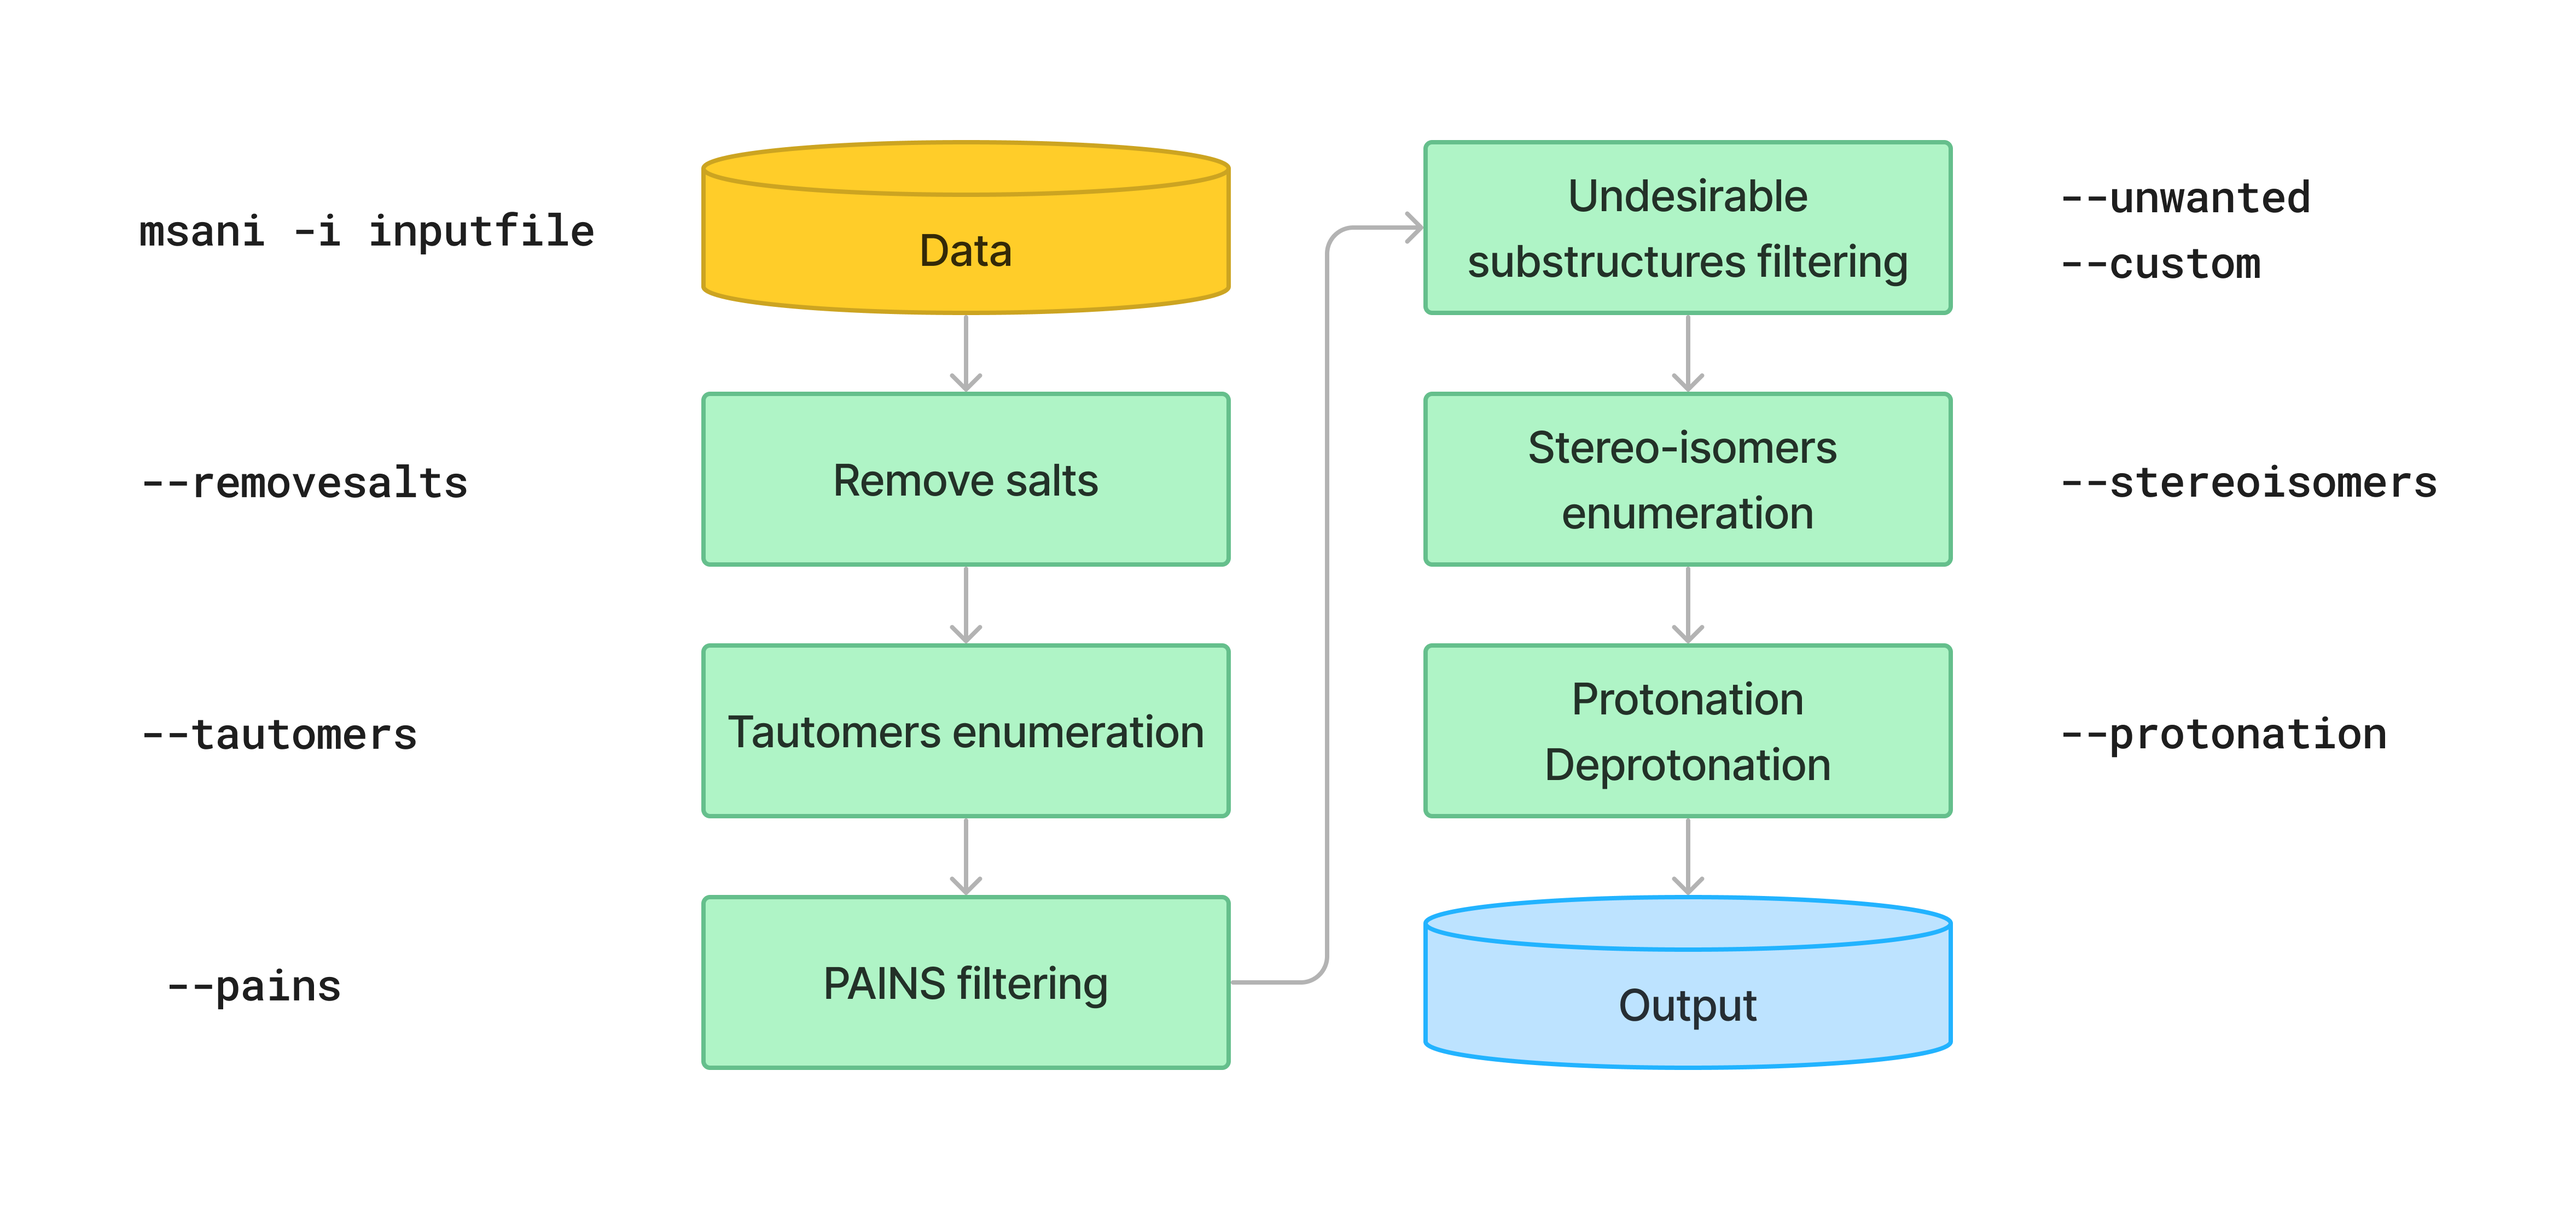
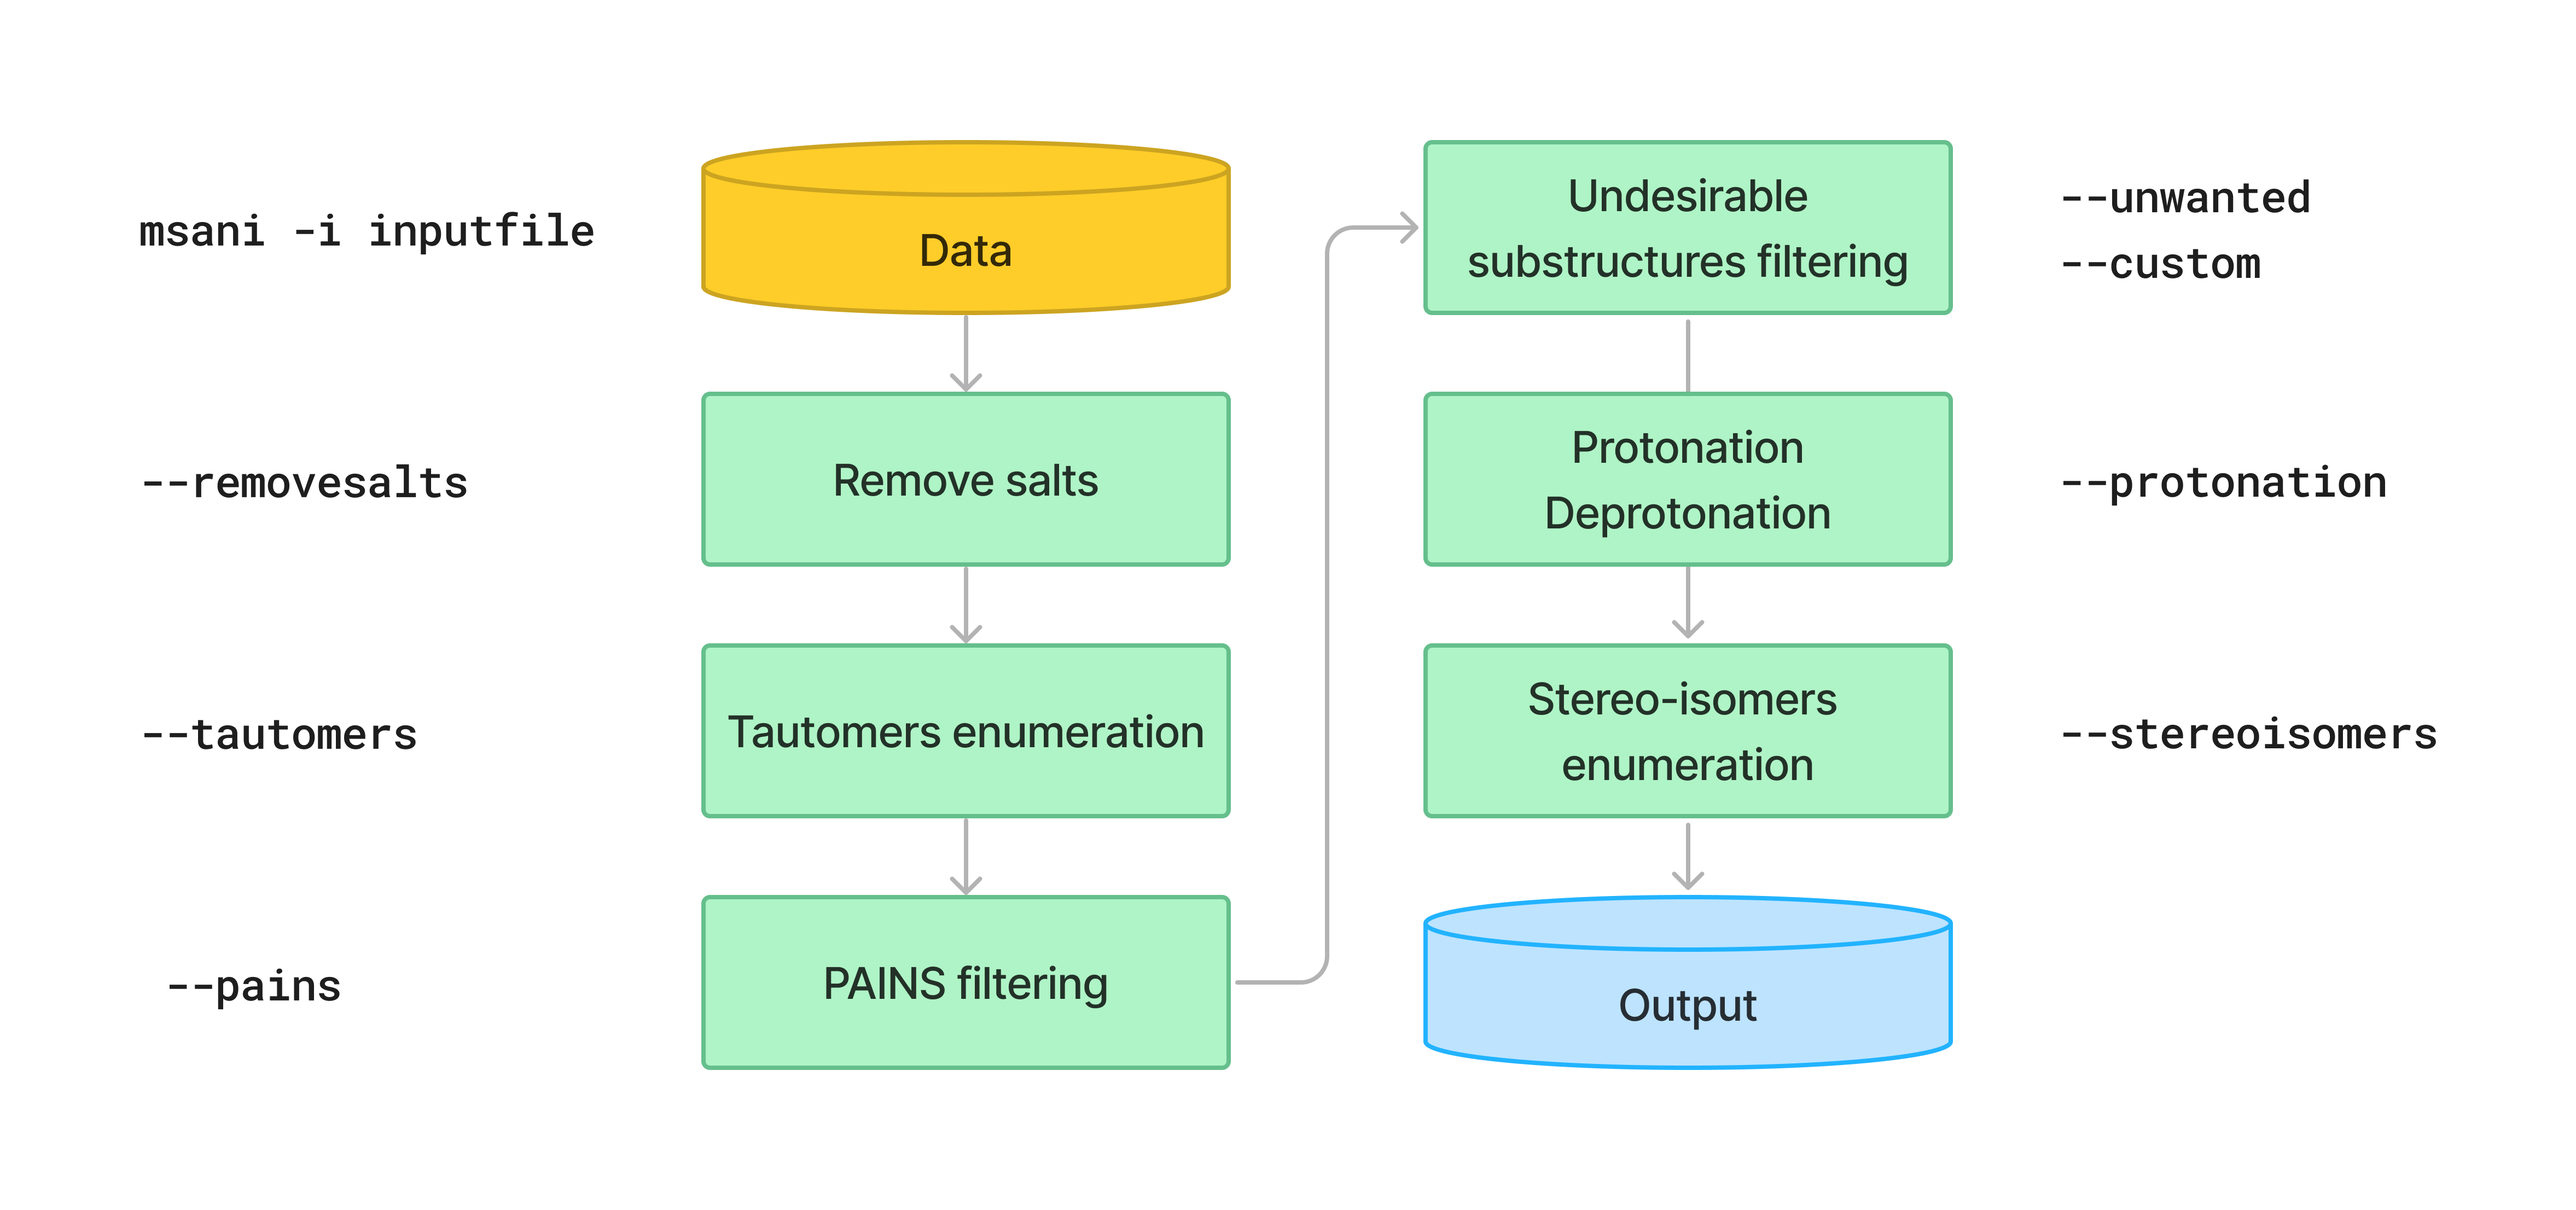
Updated the workflow of MolSanitizer

diff --git a/README.md b/README.md
@@ -114,7 +114,21 @@ msani -i example.smi --custom templates.tsv
 msani -i example.smi --unwanted all --custom templates.tsv
 ```
 
-## **Option 5: Stereoisomers enumeration**
+## **Option 5: Protonation**
+The protonation stage could be assigned to the molecules using the `--protonation` flag. The program uses SMARTS reactions to iteratively assign the protonation stages to the atoms. The SMARTS reactions could be obtained from [MolSanitizer/Data/ionizations.txt](MolSanitizer/Data/ionizations.txt). If there are multiple possibilities of protonation, the output will be expanded.
+
+```bash
+msani -i example.smi --protonation
+
+# Input:
+# O=C(N1C(C2C(C1)C2O)C(O)=O)CN3CCNCC3 mol4_editted
+
+# Output:
+# O=C([O-])C1C2C(O)C2CN1C(=O)CN1CC[NH2+]CC1 mol4_editted_1
+# O=C([O-])C1C2C(O)C2CN1C(=O)C[NH+]1CCNCC1 mol4_editted_2
+```
+
+## **Option 6: Stereoisomers enumeration**
 Stereoisomers enumeration will be considered for nonspecified chiral centers using the `--stereoisomers` flag. For an entry that contains multiple stereoisomers, its ID would be expanded (Eg. mol8 -> mol8_1 mol8_2).
 
 ```bash
@@ -132,20 +146,6 @@ It is possible to define the maximum number of stereoisomers generated for each 
 
 ```bash
 msani -i example.smi --stereoisomers --max_isomers 30
-```
-
-## **Option 6: Protonation**
-The protonation stage could be assigned to the molecules using the `--protonation` flag. The program uses SMARTS reactions to iteratively assign the protonation stages to the atoms. The SMARTS reactions could be obtained from [MolSanitizer/Data/ionizations.txt](MolSanitizer/Data/ionizations.txt). If there are multiple possibilities of protonation, the output will be expanded.
-
-```bash
-msani -i example.smi --protonation
-
-# Input:
-# O=C(N1C(C2C(C1)C2O)C(O)=O)CN3CCNCC3 mol4_editted
-
-# Output:
-# O=C([O-])C1C2C(O)C2CN1C(=O)CN1CC[NH2+]CC1 mol4_editted_1
-# O=C([O-])C1C2C(O)C2CN1C(=O)C[NH+]1CCNCC1 mol4_editted_2
 ```
 
 # Feedback
